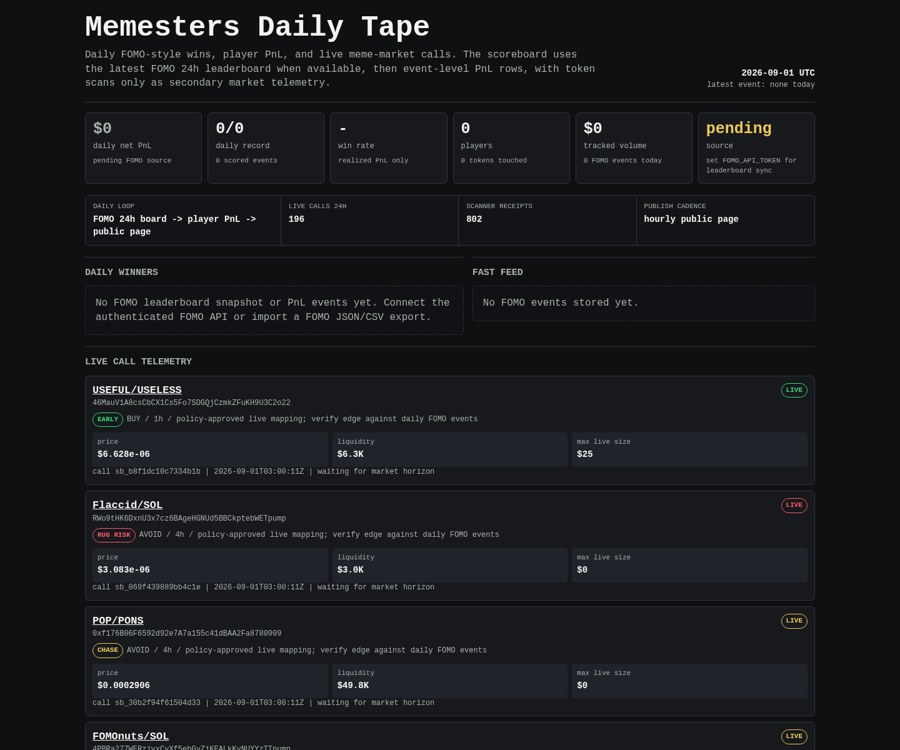
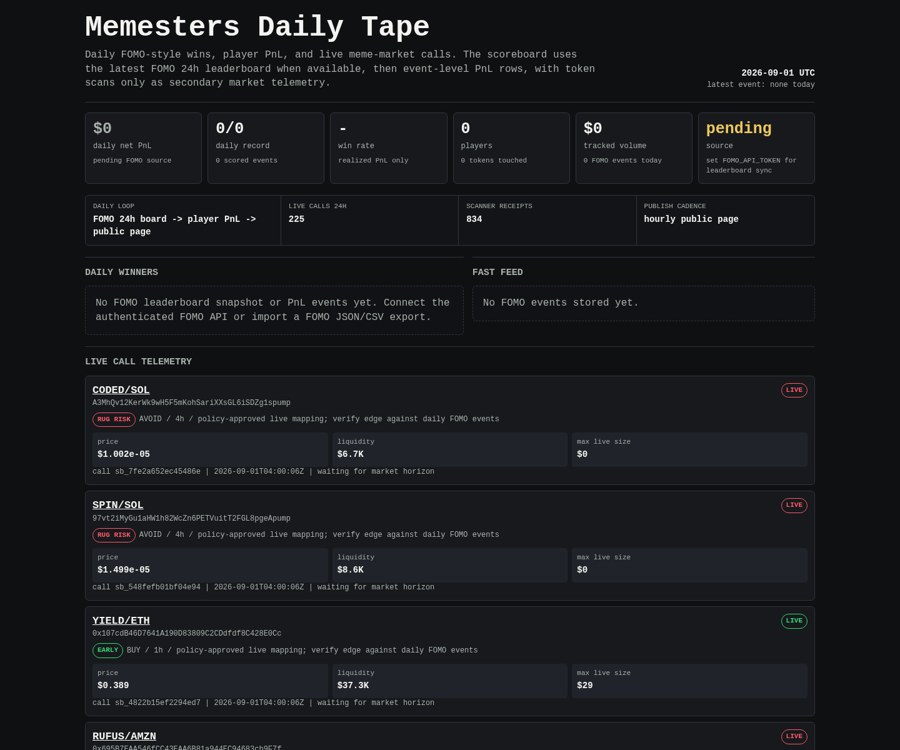
Update Memesters scoreboard

diff --git a/memesters/index.html b/memesters/index.html
@@ -149,8 +149,8 @@
 
     <div class="rail" aria-label="live operating loop">
       <div><span>daily loop</span><b>FOMO 24h board -> player PnL -> public page</b></div>
-      <div><span>live calls 24h</span><b>196</b></div>
-      <div><span>scanner receipts</span><b>802</b></div>
+      <div><span>live calls 24h</span><b>225</b></div>
+      <div><span>scanner receipts</span><b>834</b></div>
       <div><span>publish cadence</span><b>hourly public page</b></div>
     </div>
 
@@ -171,29 +171,8 @@
     <article class="receipt">
       <div class="receipt-head">
         <div>
-          <div class="pair"><a href="https://dexscreener.com/solana/3ahv1umrsuhrn5chnkwcb9qtzxvq9u7jv2ys4nsu6s6g">USEFUL/USELESS</a></div>
-          <div class="addr">46MauV1A8csCbCX1Cs5Fo7SDGQjCzmkZFuKH9U3C2o22</div>
-          <div class="addr policy-line">
-            <span class="badge early">EARLY</span>
-            <span>BUY / 1h / policy-approved live mapping; verify edge against daily FOMO events</span>
-          </div>
-        </div>
-        <span class="badge early">LIVE</span>
-      </div>
-      <div class="receipt-grid">
-        <div class="kv"><span>price</span><b>$6.628e-06</b></div>
-        <div class="kv"><span>liquidity</span><b>$6.3K</b></div>
-        <div class="kv"><span>max live size</span><b>$25</b></div>
-      </div>
-      <div class="outcomes">call sb_b8f1dc10c7334b1b | 2026-09-01T03:00:11Z | waiting for market horizon</div>
-    </article>
-    
-
-    <article class="receipt">
-      <div class="receipt-head">
-        <div>
-          <div class="pair"><a href="https://dexscreener.com/solana/acdqdujqbejcv7pcoe4nobbafcsfoysrzn6b8rxjgxvu">Flaccid/SOL</a></div>
-          <div class="addr">RWo9tHK6DxnU3x7cz6BAgeHGNUd5BBCkptebWETpump</div>
+          <div class="pair"><a href="https://dexscreener.com/solana/8fwkal13favhudnk8mqdxdzngembhefcfqyyths1fiya">CODED/SOL</a></div>
+          <div class="addr">A3MhQv12KerWk9wH5F5mKohSariXXsGL6iSDZg1spump</div>
           <div class="addr policy-line">
             <span class="badge rug-risk">RUG RISK</span>
             <span>AVOID / 4h / policy-approved live mapping; verify edge against daily FOMO events</span>
@@ -202,145 +181,19 @@
         <span class="badge rug-risk">LIVE</span>
       </div>
       <div class="receipt-grid">
-        <div class="kv"><span>price</span><b>$3.083e-06</b></div>
-        <div class="kv"><span>liquidity</span><b>$3.0K</b></div>
+        <div class="kv"><span>price</span><b>$1.002e-05</b></div>
+        <div class="kv"><span>liquidity</span><b>$6.7K</b></div>
         <div class="kv"><span>max live size</span><b>$0</b></div>
       </div>
-      <div class="outcomes">call sb_069f439889bb4c1e | 2026-09-01T03:00:11Z | waiting for market horizon</div>
+      <div class="outcomes">call sb_7fe2a652ec45486e | 2026-09-01T04:00:06Z | waiting for market horizon</div>
     </article>
     
 
     <article class="receipt">
       <div class="receipt-head">
         <div>
-          <div class="pair"><a href="https://dexscreener.com/robinhood/0x3b7b170a9fc545154c747c241130dafd482cd4708608015e153e7ed4510942b7">POP/PONS</a></div>
-          <div class="addr">0xf176B06F6592d92e7A7a155c41dBAA2Fa8780909</div>
-          <div class="addr policy-line">
-            <span class="badge chase">CHASE</span>
-            <span>AVOID / 4h / policy-approved live mapping; verify edge against daily FOMO events</span>
-          </div>
-        </div>
-        <span class="badge chase">LIVE</span>
-      </div>
-      <div class="receipt-grid">
-        <div class="kv"><span>price</span><b>$0.0002906</b></div>
-        <div class="kv"><span>liquidity</span><b>$49.8K</b></div>
-        <div class="kv"><span>max live size</span><b>$0</b></div>
-      </div>
-      <div class="outcomes">call sb_30b2f94f61504d33 | 2026-09-01T03:00:11Z | waiting for market horizon</div>
-    </article>
-    
-
-    <article class="receipt">
-      <div class="receipt-head">
-        <div>
-          <div class="pair"><a href="https://dexscreener.com/solana/9znjveefv1d2yy3cbi87z1vp9toceghbq4xem1bnddwu">FOMOnuts/SOL</a></div>
-          <div class="addr">4PBRa277WERzjyxCyXf5ehGvZjKEALkKyNUYYzTTpump</div>
-          <div class="addr policy-line">
-            <span class="badge chase">CHASE</span>
-            <span>AVOID / 4h / policy-approved live mapping; verify edge against daily FOMO events</span>
-          </div>
-        </div>
-        <span class="badge chase">LIVE</span>
-      </div>
-      <div class="receipt-grid">
-        <div class="kv"><span>price</span><b>$0.0001385</b></div>
-        <div class="kv"><span>liquidity</span><b>$32.4K</b></div>
-        <div class="kv"><span>max live size</span><b>$0</b></div>
-      </div>
-      <div class="outcomes">call sb_db1052ea32d24b1e | 2026-09-01T03:00:11Z | waiting for market horizon</div>
-    </article>
-    
-
-    <article class="receipt">
-      <div class="receipt-head">
-        <div>
-          <div class="pair"><a href="https://dexscreener.com/solana/cecaphh9uvr5equpfarejsgqnqeluftuxda1jzrpxfn2">GPAPE/SOL</a></div>
-          <div class="addr">GyxvtA5LcxvDKBnK7wTqvrRyJr3fQdspRkxGbwwipump</div>
-          <div class="addr policy-line">
-            <span class="badge chase">CHASE</span>
-            <span>AVOID / 4h / policy-approved live mapping; verify edge against daily FOMO events</span>
-          </div>
-        </div>
-        <span class="badge chase">LIVE</span>
-      </div>
-      <div class="receipt-grid">
-        <div class="kv"><span>price</span><b>$0.0001762</b></div>
-        <div class="kv"><span>liquidity</span><b>$34.8K</b></div>
-        <div class="kv"><span>max live size</span><b>$0</b></div>
-      </div>
-      <div class="outcomes">call sb_caf4be36813e4f93 | 2026-09-01T03:00:11Z | waiting for market horizon</div>
-    </article>
-    
-
-    <article class="receipt">
-      <div class="receipt-head">
-        <div>
-          <div class="pair"><a href="https://dexscreener.com/robinhood/0x3f75226b5d63706e91353d6b94ebde7824dca1b7">FOMOTRUMP/WETH</a></div>
-          <div class="addr">0x656a7c323Dd8cCAfEC7596c592c57008664b1D82</div>
-          <div class="addr policy-line">
-            <span class="badge chase">CHASE</span>
-            <span>AVOID / 4h / policy-approved live mapping; verify edge against daily FOMO events</span>
-          </div>
-        </div>
-        <span class="badge chase">LIVE</span>
-      </div>
-      <div class="receipt-grid">
-        <div class="kv"><span>price</span><b>$9.464e-05</b></div>
-        <div class="kv"><span>liquidity</span><b>$58.1K</b></div>
-        <div class="kv"><span>max live size</span><b>$0</b></div>
-      </div>
-      <div class="outcomes">call sb_01b5b6bab2bc4307 | 2026-09-01T03:00:11Z | waiting for market horizon</div>
-    </article>
-    
-
-    <article class="receipt">
-      <div class="receipt-head">
-        <div>
-          <div class="pair"><a href="https://dexscreener.com/robinhood/0x8dad4f7eef4119085560ac9cfe98675fcf05d6853bdd90416f527c5a3abbb3fc">BEDROCK/ETH</a></div>
-          <div class="addr">0x58A63FC168D3Cd4309d067C6C89E5F3dA975caA9</div>
-          <div class="addr policy-line">
-            <span class="badge early">EARLY</span>
-            <span>BUY / 1h / policy-approved live mapping; verify edge against daily FOMO events</span>
-          </div>
-        </div>
-        <span class="badge early">LIVE</span>
-      </div>
-      <div class="receipt-grid">
-        <div class="kv"><span>price</span><b>$8.147e-05</b></div>
-        <div class="kv"><span>liquidity</span><b>$26.2K</b></div>
-        <div class="kv"><span>max live size</span><b>$203</b></div>
-      </div>
-      <div class="outcomes">call sb_387ac15c0dd74eaf | 2026-09-01T03:00:11Z | waiting for market horizon</div>
-    </article>
-    
-
-    <article class="receipt">
-      <div class="receipt-head">
-        <div>
-          <div class="pair"><a href="https://dexscreener.com/robinhood/0xb84bca3f3be89e8a3adeb518cd676d5ca3642c17">DEMOTHREE/WETH</a></div>
-          <div class="addr">0x4c04287E533534435adFAB23c3cEe9D730494d98</div>
-          <div class="addr policy-line">
-            <span class="badge chase">CHASE</span>
-            <span>AVOID / 4h / policy-approved live mapping; verify edge against daily FOMO events</span>
-          </div>
-        </div>
-        <span class="badge chase">LIVE</span>
-      </div>
-      <div class="receipt-grid">
-        <div class="kv"><span>price</span><b>$0.0003608</b></div>
-        <div class="kv"><span>liquidity</span><b>$60.9K</b></div>
-        <div class="kv"><span>max live size</span><b>$0</b></div>
-      </div>
-      <div class="outcomes">call sb_66ed5872534f4078 | 2026-09-01T02:45:04Z | <span class="positive">15m -100.0% / +$100 if followed</span></div>
-    </article>
-    
-
-    <article class="receipt">
-      <div class="receipt-head">
-        <div>
-          <div class="pair"><a href="https://dexscreener.com/robinhood/0x7fb1665d527415e1ad857d790dd11a25ce1a3d75261e4d622cc2bc43f82161f2">HI/PLTR</a></div>
-          <div class="addr">0xFE33976B064Eb945446Ec1B1c5Dba65Ce7B3dDE3</div>
+          <div class="pair"><a href="https://dexscreener.com/solana/9raykajqc5ijvukktupb4xwvkaretc2qqsjadvrgugpl">SPIN/SOL</a></div>
+          <div class="addr">97vt2iMyGu1aHW1h82WcZn6PETVuitT2FGL8pgeApump</div>
           <div class="addr policy-line">
             <span class="badge rug-risk">RUG RISK</span>
             <span>AVOID / 4h / policy-approved live mapping; verify edge against daily FOMO events</span>
@@ -349,19 +202,19 @@
         <span class="badge rug-risk">LIVE</span>
       </div>
       <div class="receipt-grid">
-        <div class="kv"><span>price</span><b>$1.871e-05</b></div>
-        <div class="kv"><span>liquidity</span><b>$11.6K</b></div>
+        <div class="kv"><span>price</span><b>$1.499e-05</b></div>
+        <div class="kv"><span>liquidity</span><b>$8.6K</b></div>
         <div class="kv"><span>max live size</span><b>$0</b></div>
       </div>
-      <div class="outcomes">call sb_2e50cb82691f4c10 | 2026-09-01T02:45:04Z | <span class="negative">15m +53.5% / -$54 if followed</span></div>
+      <div class="outcomes">call sb_548fefb01bf04e94 | 2026-09-01T04:00:06Z | waiting for market horizon</div>
     </article>
     
 
     <article class="receipt">
       <div class="receipt-head">
         <div>
-          <div class="pair"><a href="https://dexscreener.com/solana/fpcm2ppof8hxgwwyqkglugregp9hkndfahpncrws3lwd">8/SOL</a></div>
-          <div class="addr">G7EsrSiXLLEXr69K8f2XWMu6DA4PiB6oJS9oaKqTpump</div>
+          <div class="pair"><a href="https://dexscreener.com/robinhood/0x275d0ed832777f6177995068e1707dd0a735d9210126d9903821ce59ecde7113">YIELD/ETH</a></div>
+          <div class="addr">0x107cdB46D7641A190D83809C2CDdfdf8C428E0Cc</div>
           <div class="addr policy-line">
             <span class="badge early">EARLY</span>
             <span>BUY / 1h / policy-approved live mapping; verify edge against daily FOMO events</span>
@@ -370,11 +223,158 @@
         <span class="badge early">LIVE</span>
       </div>
       <div class="receipt-grid">
-        <div class="kv"><span>price</span><b>$3.127e-05</b></div>
-        <div class="kv"><span>liquidity</span><b>$13.5K</b></div>
-        <div class="kv"><span>max live size</span><b>$162</b></div>
+        <div class="kv"><span>price</span><b>$0.389</b></div>
+        <div class="kv"><span>liquidity</span><b>$37.3K</b></div>
+        <div class="kv"><span>max live size</span><b>$29</b></div>
       </div>
-      <div class="outcomes">call sb_49a0d8bd13a24f4b | 2026-09-01T02:45:04Z | <span class="negative">15m -49.8% / -$50 if followed</span></div>
+      <div class="outcomes">call sb_4822b15ef2294ed7 | 2026-09-01T04:00:06Z | waiting for market horizon</div>
+    </article>
+    
+
+    <article class="receipt">
+      <div class="receipt-head">
+        <div>
+          <div class="pair"><a href="https://dexscreener.com/robinhood/0x1c69b32c964211216086844b96653ad8124c789f00ad142061930f0ebaeae0eb">RUFUS/AMZN</a></div>
+          <div class="addr">0x695B7EAA546fCC43EAA6B81a944EC94683cb9F7f</div>
+          <div class="addr policy-line">
+            <span class="badge rug-risk">RUG RISK</span>
+            <span>AVOID / 4h / policy-approved live mapping; verify edge against daily FOMO events</span>
+          </div>
+        </div>
+        <span class="badge rug-risk">LIVE</span>
+      </div>
+      <div class="receipt-grid">
+        <div class="kv"><span>price</span><b>$6.945e-05</b></div>
+        <div class="kv"><span>liquidity</span><b>$20.9K</b></div>
+        <div class="kv"><span>max live size</span><b>$0</b></div>
+      </div>
+      <div class="outcomes">call sb_405edeecca3c48db | 2026-09-01T04:00:06Z | waiting for market horizon</div>
+    </article>
+    
+
+    <article class="receipt">
+      <div class="receipt-head">
+        <div>
+          <div class="pair"><a href="https://dexscreener.com/solana/ezeupflxjvtlqmr37cak4nfl8rx8vkbsfpumg8zq4uwd">XCAT/SOL</a></div>
+          <div class="addr">6khz9z3k4CzxUBA5mWzZghPJDxmqLT7qsKmYTXYeaRQj</div>
+          <div class="addr policy-line">
+            <span class="badge chase">CHASE</span>
+            <span>AVOID / 4h / policy-approved live mapping; verify edge against daily FOMO events</span>
+          </div>
+        </div>
+        <span class="badge chase">LIVE</span>
+      </div>
+      <div class="receipt-grid">
+        <div class="kv"><span>price</span><b>$0.0002629</b></div>
+        <div class="kv"><span>liquidity</span><b>$44.5K</b></div>
+        <div class="kv"><span>max live size</span><b>$0</b></div>
+      </div>
+      <div class="outcomes">call sb_6cd730417529490e | 2026-09-01T04:00:05Z | waiting for market horizon</div>
+    </article>
+    
+
+    <article class="receipt">
+      <div class="receipt-head">
+        <div>
+          <div class="pair"><a href="https://dexscreener.com/solana/5j4frgrebrumsmjhnmy24q4nnojdpvfabqjs11wsmhtt">GROKCAT/SOL</a></div>
+          <div class="addr">7XLNdfeNXmXMnMcQuUqJUzi6ah8pHpndKhwhxbsDUFL3</div>
+          <div class="addr policy-line">
+            <span class="badge rug-risk">RUG RISK</span>
+            <span>AVOID / 4h / policy-approved live mapping; verify edge against daily FOMO events</span>
+          </div>
+        </div>
+        <span class="badge rug-risk">LIVE</span>
+      </div>
+      <div class="receipt-grid">
+        <div class="kv"><span>price</span><b>$4.291e-05</b></div>
+        <div class="kv"><span>liquidity</span><b>$16.5K</b></div>
+        <div class="kv"><span>max live size</span><b>$0</b></div>
+      </div>
+      <div class="outcomes">call sb_3c2e9734c313479b | 2026-09-01T04:00:05Z | waiting for market horizon</div>
+    </article>
+    
+
+    <article class="receipt">
+      <div class="receipt-head">
+        <div>
+          <div class="pair"><a href="https://dexscreener.com/robinhood/0x6634898f65c134a6ef710e97fb865474c8e26091199258a608bdfadf648af026">SNAPCOIN/SPCX</a></div>
+          <div class="addr">0xf21565dC25c4A2644D135E966A72228B12F71E18</div>
+          <div class="addr policy-line">
+            <span class="badge chase">CHASE</span>
+            <span>AVOID / 4h / policy-approved live mapping; verify edge against daily FOMO events</span>
+          </div>
+        </div>
+        <span class="badge chase">LIVE</span>
+      </div>
+      <div class="receipt-grid">
+        <div class="kv"><span>price</span><b>$3.928e-05</b></div>
+        <div class="kv"><span>liquidity</span><b>$35.8K</b></div>
+        <div class="kv"><span>max live size</span><b>$0</b></div>
+      </div>
+      <div class="outcomes">call sb_3454ca15a3f54b52 | 2026-09-01T04:00:05Z | waiting for market horizon</div>
+    </article>
+    
+
+    <article class="receipt">
+      <div class="receipt-head">
+        <div>
+          <div class="pair"><a href="https://dexscreener.com/robinhood/0x54ab1e1bea33d2902bca8bc569f34f859221fe018756cc714285cf9a3909b316">SOL/ETH</a></div>
+          <div class="addr">0x5C40BA1C0c31c50f78BEF2B599b5CDd6BBb58E0d</div>
+          <div class="addr policy-line">
+            <span class="badge early">EARLY</span>
+            <span>BUY / 1h / policy-approved live mapping; verify edge against daily FOMO events</span>
+          </div>
+        </div>
+        <span class="badge early">LIVE</span>
+      </div>
+      <div class="receipt-grid">
+        <div class="kv"><span>price</span><b>$3.417e-05</b></div>
+        <div class="kv"><span>liquidity</span><b>$17.1K</b></div>
+        <div class="kv"><span>max live size</span><b>$77</b></div>
+      </div>
+      <div class="outcomes">call sb_c2bef20bc9c64288 | 2026-09-01T04:00:05Z | waiting for market horizon</div>
+    </article>
+    
+
+    <article class="receipt">
+      <div class="receipt-head">
+        <div>
+          <div class="pair"><a href="https://dexscreener.com/solana/hh7e276zakrjm1zvbv83ens6m7ky229meknviwh1myyd">BATON/SOL</a></div>
+          <div class="addr">ALjmEBqtYsCLpQTaszSkeboz3o8AtkhM8FDDyPKmpump</div>
+          <div class="addr policy-line">
+            <span class="badge rug-risk">RUG RISK</span>
+            <span>AVOID / 4h / policy-approved live mapping; verify edge against daily FOMO events</span>
+          </div>
+        </div>
+        <span class="badge rug-risk">LIVE</span>
+      </div>
+      <div class="receipt-grid">
+        <div class="kv"><span>price</span><b>$2.983e-05</b></div>
+        <div class="kv"><span>liquidity</span><b>$13.0K</b></div>
+        <div class="kv"><span>max live size</span><b>$0</b></div>
+      </div>
+      <div class="outcomes">call sb_6e797e47926f490a | 2026-09-01T03:45:04Z | waiting for market horizon</div>
+    </article>
+    
+
+    <article class="receipt">
+      <div class="receipt-head">
+        <div>
+          <div class="pair"><a href="https://dexscreener.com/solana/82dqlpcubennt8vsbtykgi7rtcjdse7a7p5fyybdv6xv">CRIME/SOL</a></div>
+          <div class="addr">ARBzMHaUeb33HqaChWnaTja4qSPB3tggwsQNK64XTnfC</div>
+          <div class="addr policy-line">
+            <span class="badge rug-risk">RUG RISK</span>
+            <span>AVOID / 4h / policy-approved live mapping; verify edge against daily FOMO events</span>
+          </div>
+        </div>
+        <span class="badge rug-risk">LIVE</span>
+      </div>
+      <div class="receipt-grid">
+        <div class="kv"><span>price</span><b>$3.738e-06</b></div>
+        <div class="kv"><span>liquidity</span><b>$3.4K</b></div>
+        <div class="kv"><span>max live size</span><b>$0</b></div>
+      </div>
+      <div class="outcomes">call sb_9104da224f184a61 | 2026-09-01T03:45:04Z | waiting for market horizon</div>
     </article>
     
     </section>
